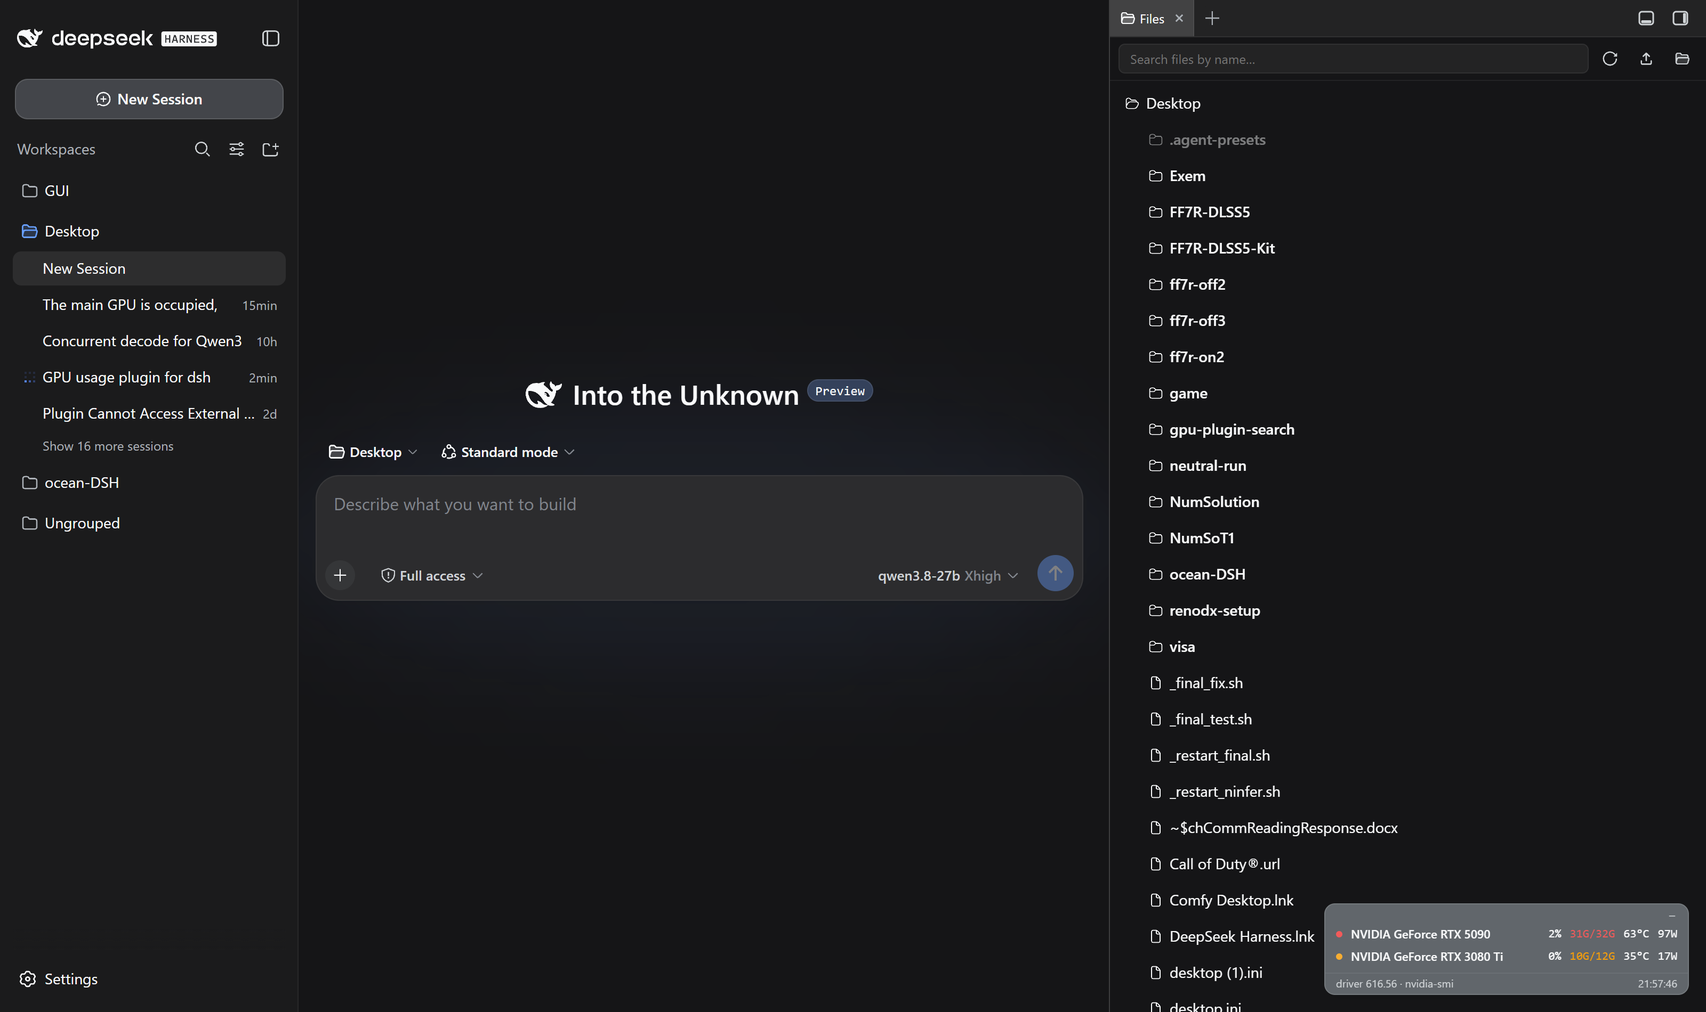
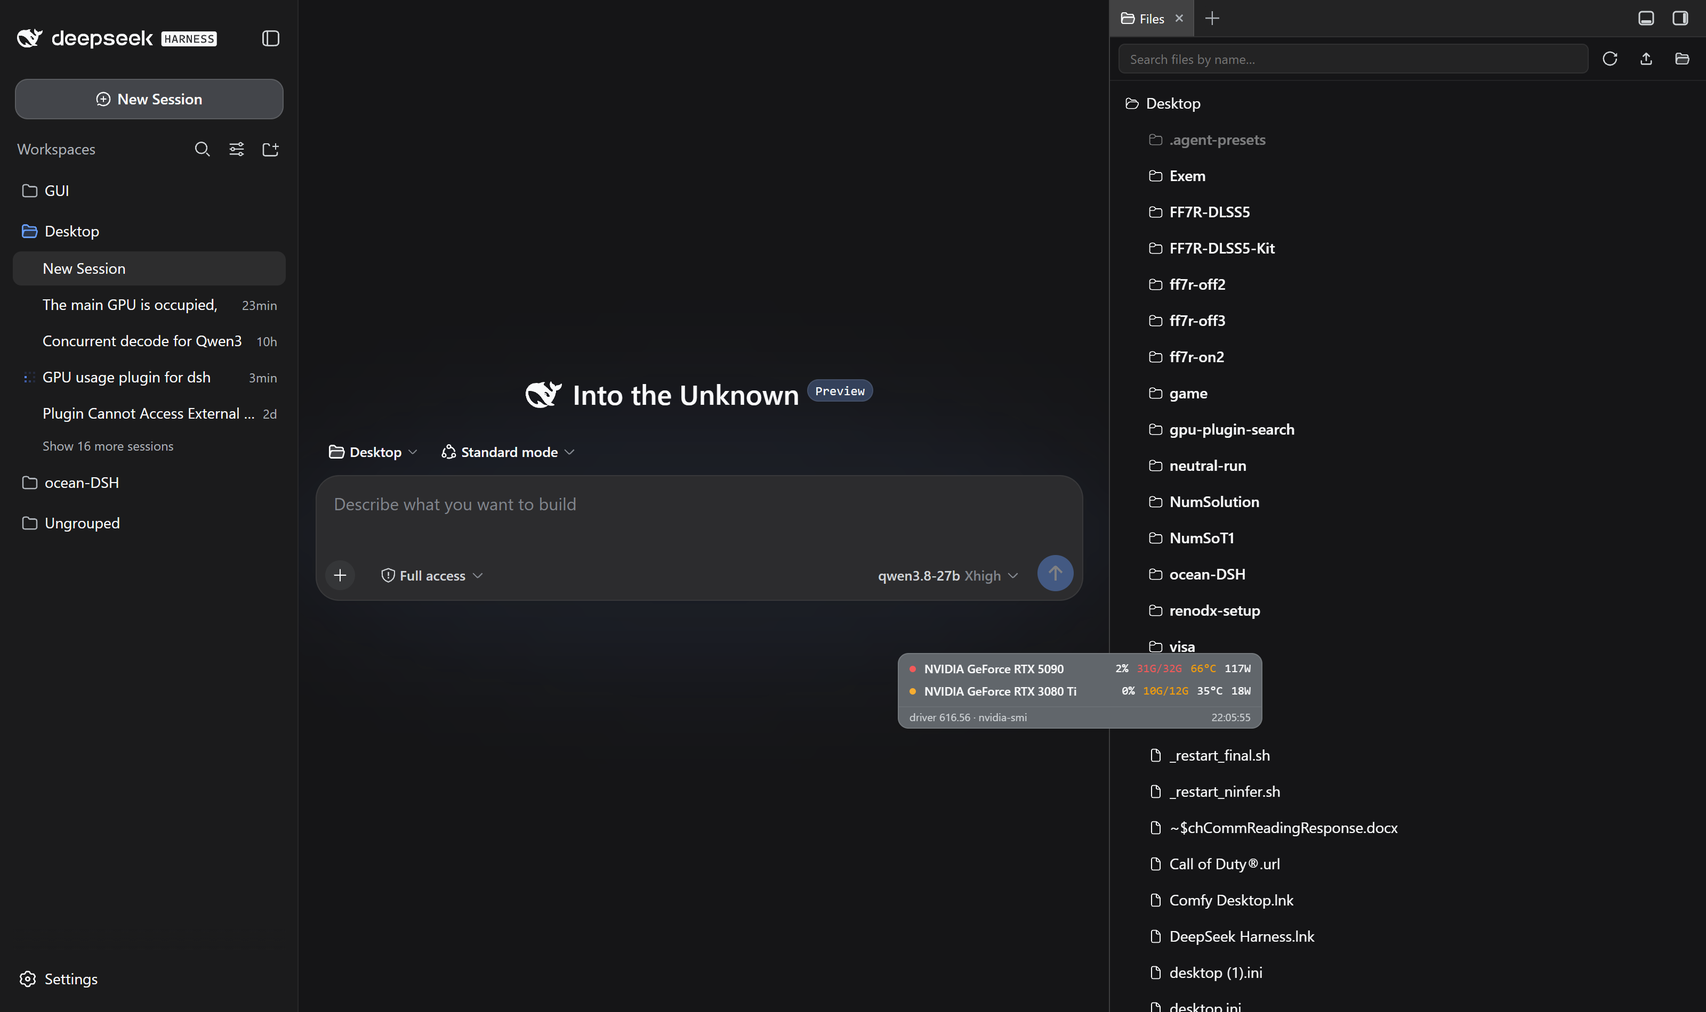
ui: single format (no collapse), draggable with persisted position (1.2.0)

Changed region(s): [[0.75, 0.8695, 1.0, 0.9937], [0.5, 0.6211, 0.75, 0.7453]]

diff --git a/client/client.js b/client/client.js
@@ -7,16 +7,18 @@
  * runner. The bundle `require`s exactly one module — the platform seed
  * `react` — so there are no externals to keep in sync with the host build.
  *
- * UI: a compact floating strip in the `shell.overlay` slot (bottom-right of
- * the DSH Web UI) polling GET /dsh-gpu-pulse/status (host half). It renders
- * every discrete GPU (integrated GPUs are not exposed by nvidia-smi) as a
- * single row: status dot, exact GPU name, utilization, VRAM, temperature and
- * power draw, plus a top-process list when the host collected compute apps.
- * A collapsed state (persisted in localStorage) drops the header and footer.
- * At runtime the widget promotes the overlay layer's z-index so side-card
- * plugins (dsh-better-sidebar) cannot cover it. Colors follow the active
- * theme via --dsw-* token variables (static fallbacks keep older hosts
- * readable).
+ * UI: a compact floating strip in the `shell.overlay` slot (the DSH Web UI)
+ * polling GET /dsh-gpu-pulse/status (host half). It always renders the same
+ * format: one row per discrete GPU (integrated GPUs are not exposed by
+ * nvidia-smi) with status dot, exact GPU name, utilization, VRAM,
+ * temperature and power draw, plus a top-process list when the host
+ * collected compute apps, and a slim footer. The strip is draggable: the
+ * pointer position persists in localStorage (survives new sessions and
+ * reboots on the same browser profile); double-clicking resets it to the
+ * default corner. At runtime the widget promotes the overlay layer's
+ * z-index so side-card plugins (dsh-better-sidebar) cannot cover it. Colors
+ * follow the active theme via --dsw-* token variables (static fallbacks
+ * keep older hosts readable).
  */
 window.__ModuleLoader__.load({
   id: "dsh-gpu-pulse",
@@ -25,12 +27,30 @@ window.__ModuleLoader__.load({
     var exports = module.exports;
     let react = require("react");
     const h = react.createElement;
-    const { useState, useEffect, useRef } = react;
+    const { useState, useEffect, useRef, useCallback } = react;
 
     const NS = "dsh-gpu-pulse";
     const STATUS_PATH = "/dsh-gpu-pulse/status";
-    const COLLAPSE_KEY = "dsh-gpu-pulse:collapsed";
+    const POS_KEY = "dsh-gpu-pulse:pos";
     const MIN_POLL_MS = 1000;
+
+    // ---- position persistence -------------------------------------------
+
+    function loadPos() {
+      try {
+        const raw = localStorage.getItem(POS_KEY);
+        if (!raw) return null;
+        const p = JSON.parse(raw);
+        if (p && Number.isFinite(p.x) && Number.isFinite(p.y)) return { x: p.x, y: p.y };
+      } catch (e) { /* bad storage: fall back to the default corner */ }
+      return null;
+    }
+    function savePos(p) {
+      try { localStorage.setItem(POS_KEY, JSON.stringify(p)); } catch (e) { /* private mode */ }
+    }
+    function clearPos() {
+      try { localStorage.removeItem(POS_KEY); } catch (e) { /* private mode */ }
+    }
 
     // ---- tone + formatting helpers -------------------------------------
 
@@ -56,11 +76,9 @@ window.__ModuleLoader__.load({
 
     const CSS = [
       "." + NS + "{position:fixed;right:16px;bottom:16px;z-index:30;font:11px/1.35 var(--dsw-font-family,-apple-system,'Segoe UI',sans-serif);color:var(--dsw-alias-label-primary,#1f2328);user-select:none;-webkit-user-select:none}",
-      "." + NS + "-card{width:340px;background:var(--dsw-alias-bg-overlay,#ffffff);border:1px solid var(--dsw-alias-border-l2,#dcdcdc);border-radius:10px;box-shadow:var(--dsw-shadow-lv2,0 8px 24px rgba(15,15,15,.14));overflow:hidden}",
-      "." + NS + "-head{display:flex;justify-content:flex-end;padding:3px 6px 0}",
-      "." + NS + "-btn{flex:none;border:0;background:transparent;color:var(--dsw-alias-label-secondary,#545557);font:11px/1 var(--dsw-font-family,inherit);cursor:pointer;padding:1px 6px;border-radius:5px}",
-      "." + NS + "-btn:hover{background:var(--dsw-alias-interactive-bg-hover,rgba(127,130,135,.12))}",
-      "." + NS + "-body{padding:2px 10px 4px;max-height:50vh;overflow-y:auto}",
+      "." + NS + "-card{width:340px;background:var(--dsw-alias-bg-overlay,#ffffff);border:1px solid var(--dsw-alias-border-l2,#dcdcdc);border-radius:10px;box-shadow:var(--dsw-shadow-lv2,0 8px 24px rgba(15,15,15,.14));overflow:hidden;cursor:grab;touch-action:none}",
+      "." + NS + "-card-dragging{cursor:grabbing;box-shadow:var(--dsw-shadow-lv3,0 12px 32px rgba(15,15,15,.22))}",
+      "." + NS + "-body{padding:4px 10px 0}",
       "." + NS + "-row{display:flex;align-items:center;gap:8px;padding:3px 0}",
       "." + NS + "-dot{flex:none;width:6px;height:6px;border-radius:50%;background:var(--dsw-static-green-400,#4ed17e)}",
       "." + NS + "-dot-warn{background:var(--dsw-static-amber-400,#f7ad31)}",
@@ -78,13 +96,10 @@ window.__ModuleLoader__.load({
       "." + NS + "-procstitle{margin-bottom:2px;font-size:10px;letter-spacing:.04em;color:var(--dsw-alias-label-secondary,#545557)}",
       "." + NS + "-proc{display:flex;justify-content:space-between;gap:8px;font-size:10px;font-family:var(--ds-font-family-code,ui-monospace,monospace);padding:1px 0}",
       "." + NS + "-procname{overflow:hidden;text-overflow:ellipsis;white-space:nowrap}",
-      "." + NS + "-foot{display:flex;justify-content:space-between;gap:8px;padding:3px 10px;border-top:1px solid var(--dsw-alias-border-l1,rgba(127,130,135,.18));font-size:10px;color:var(--dsw-alias-label-secondary,#545557)}",
+      "." + NS + "-foot{display:flex;justify-content:space-between;gap:8px;padding:3px 10px;margin-top:3px;border-top:1px solid var(--dsw-alias-border-l1,rgba(127,130,135,.18));font-size:10px;color:var(--dsw-alias-label-secondary,#545557)}",
       "." + NS + "-pill{display:inline-flex;align-items:center;gap:8px;padding:6px 12px;border-radius:999px;background:var(--dsw-alias-bg-overlay,#ffffff);border:1px solid var(--dsw-alias-border-l2,#dcdcdc);box-shadow:var(--dsw-shadow-lv2,0 8px 24px rgba(15,15,15,.14));font-size:11px;cursor:pointer}",
       "." + NS + "-pill:hover{border-color:var(--dsw-alias-brand-primary,#4176e6)}",
-      "." + NS + "-pillsub{font-size:10px;color:var(--dsw-alias-label-secondary,#545557);max-width:300px;overflow:hidden;text-overflow:ellipsis;white-space:nowrap}",
-      "." + NS + "-chip{width:340px;background:var(--dsw-alias-bg-overlay,#ffffff);border:1px solid var(--dsw-alias-border-l2,#dcdcdc);border-radius:10px;box-shadow:var(--dsw-shadow-lv2,0 8px 24px rgba(15,15,15,.14));padding:5px 10px 6px;cursor:pointer}",
-      "." + NS + "-chip:hover{border-color:var(--dsw-alias-brand-primary,#4176e6)}",
-      "." + NS + "-chiphead{display:flex;align-items:center;gap:6px;margin-bottom:2px;font-size:10px;color:var(--dsw-alias-label-secondary,#545557)}"
+      "." + NS + "-pillsub{font-size:10px;color:var(--dsw-alias-label-secondary,#545557);max-width:300px;overflow:hidden;text-overflow:ellipsis;white-space:nowrap}"
     ].join("\n");
 
     // ---- components ------------------------------------------------------
@@ -117,12 +132,13 @@ window.__ModuleLoader__.load({
 
     function GpuWidget() {
       const [data, setData] = useState(null);
-      const [collapsed, setCollapsed] = useState(() => {
-        try { return localStorage.getItem(COLLAPSE_KEY) === "1"; } catch (e) { return false; }
-      });
+      const [pos, setPos] = useState(loadPos);
+      const [dragging, setDragging] = useState(false);
+      const [, forceTick] = useState(0); // re-render hook for resize clamping
       const pollMsRef = useRef(2000);
       const inFlight = useRef(false);
       const rootRef = useRef(null);
+      const dragRef = useRef(null);
 
       // Stacking fix: the host app stacks the shell.overlay layer at z-index 20,
       // while side-panel plugins (dsh-better-sidebar: panel host z 25, panel
@@ -145,9 +161,12 @@ window.__ModuleLoader__.load({
         }
       });
 
+      // Keep a saved position on screen if the window shrinks after it.
       useEffect(() => {
-        try { localStorage.setItem(COLLAPSE_KEY, collapsed ? "1" : "0"); } catch (e) { /* private mode */ }
-      }, [collapsed]);
+        const onResize = () => forceTick((n) => n + 1);
+        window.addEventListener("resize", onResize);
+        return () => window.removeEventListener("resize", onResize);
+      }, []);
 
       useEffect(() => {
         let stopped = false;
@@ -174,16 +193,77 @@ window.__ModuleLoader__.load({
         return () => { stopped = true; clearTimeout(timer); };
       }, []);
 
-      // Loading / driver-missing: a quiet pill, not a card.
+      // ---- dragging (position persists across sessions via localStorage)
+
+      const clampPos = useCallback((x, y) => {
+        const el = rootRef.current;
+        const w = el ? el.offsetWidth : 340;
+        const hh = el ? el.offsetHeight : 100;
+        return {
+          x: Math.max(0, Math.min(window.innerWidth - w, x)),
+          y: Math.max(0, Math.min(window.innerHeight - hh, y))
+        };
+      }, []);
+
+      const onMove = (e) => {
+        const d = dragRef.current;
+        if (!d) return;
+        d.moved = true;
+        setPos(clampPos(e.clientX - d.dx, e.clientY - d.dy));
+      };
+
+      // Plain functions (recreated per render): the instance added to the
+      // window in onDragStart and the instance removing it in onUp are always
+      // from the same render, so add/remove pair up correctly.
+      const onUp = (e) => {
+        const d = dragRef.current;
+        dragRef.current = null;
+        window.removeEventListener("pointermove", onMove);
+        window.removeEventListener("pointerup", onUp);
+        window.removeEventListener("pointercancel", onUp);
+        setDragging(false);
+        if (d && d.moved) {
+          const p = clampPos(e.clientX - d.dx, e.clientY - d.dy);
+          setPos(p);
+          savePos(p);
+        }
+      };
+
+      const onDragStart = (e) => {
+        if (e.button !== 0) return;
+        const el = rootRef.current;
+        if (!el) return;
+        e.preventDefault();
+        const r = el.getBoundingClientRect();
+        dragRef.current = { dx: e.clientX - r.left, dy: e.clientY - r.top, moved: false };
+        setDragging(true);
+        window.addEventListener("pointermove", onMove);
+        window.addEventListener("pointerup", onUp);
+        window.addEventListener("pointercancel", onUp);
+      };
+
+      // Double-click (no drag involved) resets to the default corner.
+      const onDblClick = () => {
+        clearPos();
+        setPos(null);
+      };
+
+      // Clamped position for the current viewport (recomputed on resize).
+      const shownPos = pos ? clampPos(pos.x, pos.y) : null;
+      const rootStyle = shownPos
+        ? { left: shownPos.x + "px", top: shownPos.y + "px", right: "auto", bottom: "auto" }
+        : undefined;
+
+      // Loading / driver-missing: a quiet pill, not a strip.
       if (data == null) {
-        return h("div", { className: NS, ref: rootRef },
+        return h("div", { className: NS, ref: rootRef, style: rootStyle },
           h("div", { className: NS + "-pill", title: "Waiting for the first sample" },
             h("span", { className: NS + "-dot " + NS + "-dot-off" }),
             h("span", null, "GPU"),
             h("span", { className: NS + "-pillsub" }, "…")));
       }
       if (!data.ok) {
-        return h("div", { className: NS, ref: rootRef },
+        return h("div", { className: NS, ref: rootRef, style: rootStyle },
           h("div", { className: NS + "-pill", title: data.reason || "GPU telemetry unavailable" },
             h("span", { className: NS + "-dot " + NS + "-dot-off" }),
             h("span", null, "GPU"),
@@ -191,24 +271,6 @@ window.__ModuleLoader__.load({
       }
 
       const gpus = data.gpus || [];
-      const globalTone = worstTone(
-        ...gpus.map((g) => {
-          const memPct = g.memTotalMiB ? (g.memUsedMiB / g.memTotalMiB) * 100 : null;
-          return worstTone(utilTone(g.util), memTone(memPct), tempTone(g.temp));
-        })
-      );
-
-      if (collapsed) {
-        // Collapsed chip: the same per-GPU rows without header/footer.
-        return h("div", { className: NS, ref: rootRef },
-          h("div", { className: NS + "-chip", title: "Click to expand", onClick: () => setCollapsed(false) },
-            h("div", { className: NS + "-chiphead" },
-              h("span", { className: NS + "-dot" + dotCls(globalTone) }),
-              h("span", null, gpus.length + " GPU" + (gpus.length === 1 ? "" : "s"))
-            ),
-            h(GpuRows, { gpus })
-          ));
-      }
 
       let procsEl = null;
       if (data.processes && data.processes.length > 0) {
@@ -223,11 +285,13 @@ window.__ModuleLoader__.load({
         );
       }
 
-      return h("div", { className: NS, ref: rootRef },
-        h("div", { className: NS + "-card" },
-          h("div", { className: NS + "-head" },
-            h("button", { className: NS + "-btn", title: "Collapse", onClick: () => setCollapsed(true) }, "–")
-          ),
+      return h("div", { className: NS, ref: rootRef, style: rootStyle },
+        h("div", {
+          className: NS + "-card" + (dragging ? " " + NS + "-card-dragging" : ""),
+          title: "Drag to move, double-click to reset position",
+          onPointerDown: onDragStart,
+          onDoubleClick: onDblClick
+        },
           h("div", { className: NS + "-body" }, h(GpuRows, { gpus }), procsEl),
           h("div", { className: NS + "-foot" },
             h("span", null, "driver " + (data.driverVersion || "—") + " · " + data.backend),

diff --git a/README.md b/README.md
@@ -1,6 +1,6 @@
 # dsh-gpu-pulse
 
-A floating GPU monitor inside the DSH Web UI. Live per-GPU **utilization, VRAM, temperature and power**, plus the top VRAM-consuming processes when the driver reports them, rendered as a compact strip (one row per GPU) in the corner of the DeepSeek Harness page.
+A floating GPU monitor inside the DSH Web UI. Live per-GPU **utilization, VRAM, temperature and power**, plus the top VRAM-consuming processes when the driver reports them, rendered as a compact, draggable strip (one row per GPU) in the DeepSeek Harness page.
 
 Works on any machine with an NVIDIA driver (Windows or Linux): the data comes from `nvidia-smi`, so multi-GPU rigs show one instrument block per GPU. `nvidia-smi` only reports discrete NVIDIA adapters, so integrated GPUs (Intel UHD, AMD iGPU, ...) are never part of the display. No extra service to run and no agent tools to call: the card polls the DSH host's own route.
 
@@ -12,9 +12,9 @@ Works on any machine with an NVIDIA driver (Windows or Linux): the data comes fr
 
 The strip stays on top of side panels and side cards (for example the `dsh-better-sidebar` Files panel) instead of being covered by them.
 
-The minus button in the top-right corner collapses the strip to the same rows without header and footer:
+## Positioning
 
-![dsh-gpu-pulse collapsed, one row per GPU](docs/screenshot-chip.png)
+The strip starts at the bottom-right corner and is **draggable**: press and drag it anywhere on the page. The position is remembered (persisted per browser profile), so it stays where you left it across new sessions and reboots. Double-click the strip to reset it to the default corner.
 
 ## Install
 
@@ -28,7 +28,7 @@ dsh plugin --profile web add /path/to/dsh-gpu-pulse
 
 The npm name `dsh-gpu-pulse` is reserved: `dsh plugin --profile web add dsh-gpu-pulse` will work once the npm package is published.
 
-Then restart `dsh web`. The strip appears at the bottom-right corner of the GUI; the minus button in the top-right corner collapses it (the same rows without header and footer), and the collapsed state persists.
+Then restart `dsh web`. The strip appears at the bottom-right corner of the GUI; drag it wherever you like and the spot is remembered.
 
 ## What you see
 
@@ -43,7 +43,7 @@ One row per GPU, intentionally compact (about 85 px for two GPUs):
 - **TOP PROCESSES**: the biggest VRAM consumers, when the driver attributes memory per process (most recent Windows drivers report `[N/A]` for graphics contexts, in which case this section is omitted)
 - footer: driver (KMD) version + timestamp of the last sample
 
-The exact GPU name (as reported by the driver) is shown in every row and in the collapsed state.
+The exact GPU name (as reported by the driver) is shown in every row.
 
 ## Configuration
 
@@ -62,7 +62,7 @@ Everything is optional: defaults work out of the box. Override in the profile's 
 ## How it works
 
 - **Host** (`index.js`): registers `GET /dsh-gpu-pulse/status` on the DSH host web server. Each request runs up to four `nvidia-smi` queries (`--query-gpu` metrics, `--query-gpu=index,name`, `--version`, and optionally `--query-compute-apps`) with a 4 s timeout, parses the CSV, and returns JSON. Results are cached for ~1.2 s so several open tabs share one process per poll cycle.
-- **Client** (`client/client.js`): a hand-written `__ModuleLoader__` bundle (no build step, the only require is the platform `react` seed) that mounts the widget into the `shell.overlay` slot. It polls the status route and styles itself with the active theme's `--dsw-*` token variables (static fallbacks keep older hosts readable). Because side-panel plugins stack above the overlay slot's default z-index, the client promotes the overlay layer to the top of the app's stack at runtime, so side cards and drawers can never cover the widget.
+- **Client** (`client/client.js`): a hand-written `__ModuleLoader__` bundle (no build step, the only require is the platform `react` seed) that mounts the widget into the `shell.overlay` slot. It polls the status route, styles itself with the active theme's `--dsw-*` token variables (static fallbacks keep older hosts readable), and handles its own pointer events for dragging (the position is stored in `localStorage` under a `dsh-gpu-pulse:pos` key). Because side-panel plugins stack above the overlay slot's default z-index, the client promotes the overlay layer to the top of the app's stack at runtime, so side cards and drawers can never cover the widget.
 
 ## Requirements
 

diff --git a/README.zh.md b/README.zh.md
@@ -1,6 +1,6 @@
 # dsh-gpu-pulse
 
-DSH Web 界面内置的悬浮 GPU 监控。实时显示每张 GPU 的**利用率、显存、温度与功耗**，当驱动支持按进程归因显存时还会列出占用最高的进程，以紧凑条带形式（每张 GPU 一行）渲染在 DeepSeek Harness 页面角落。
+DSH Web 界面内置的悬浮 GPU 监控。实时显示每张 GPU 的**利用率、显存、温度与功耗**，当驱动支持按进程归因显存时还会列出占用最高的进程，以紧凑可拖动的条带形式（每张 GPU 一行）渲染在 DeepSeek Harness 页面。
 
 适用于任何装有 NVIDIA 驱动的机器（Windows 或 Linux）：数据来自 `nvidia-smi`，多 GPU 平台会为每张 GPU 显示一块独立的仪表区。`nvidia-smi` 只上报独立的 NVIDIA 显卡，因此核显（Intel UHD、AMD iGPU 等）不会出现在显示中。无需额外常驻服务，也无需调用 agent 工具：卡片直接轮询 DSH 宿主自带的接口。
 
@@ -12,9 +12,9 @@ DSH Web 界面内置的悬浮 GPU 监控。实时显示每张 GPU 的**利用率
 
 侧边面板或侧边卡片打开时（例如 `dsh-better-sidebar` 的 Files 面板），条带会保持在最上层，不会被遮挡。
 
-点右上角减号按钮可将条带折叠为无头部与页脚的紧凑形态（同样的每张 GPU 一行）：
+## 位置
 
-![dsh-gpu-pulse 折叠形态，每张 GPU 一行](docs/screenshot-chip.png)
+条带默认出现在右下角，并且**可拖动**：按住拖到页面任意位置即可。位置会被记住（按浏览器配置持久保存），因此新建会话或重启后仍保持上次放的位置。双击条带可恢复到默认角落。
 
 ## 安装
 
@@ -28,7 +28,7 @@ dsh plugin --profile web add /path/to/dsh-gpu-pulse
 
 npm 包名 `dsh-gpu-pulse` 已预留：npm 包发布后 `dsh plugin --profile web add dsh-gpu-pulse` 即可用。
 
-然后重启 `dsh web`。条带出现在 GUI 右下角；点右上角减号按钮可将其折叠为无头部与页脚的紧凑形态，折叠状态会被记住。
+然后重启 `dsh web`。条带出现在 GUI 右下角；拖动到任意位置即可，位置会被记住。
 
 ## 界面内容
 
@@ -43,7 +43,7 @@ npm 包名 `dsh-gpu-pulse` 已预留：npm 包发布后 `dsh plugin --profile we
 - **TOP PROCESSES**：显存占用最高的进程；多数新版 Windows 驱动对图形上下文返回 `[N/A]`，此时该区块自动省略
 - 页脚：驱动（KMD）版本 + 最近一次采样的时间戳
 
-每行与折叠形态都显示驱动报告的精确 GPU 名称。
+每行都显示驱动报告的精确 GPU 名称。
 
 ## 配置
 
@@ -62,7 +62,7 @@ npm 包名 `dsh-gpu-pulse` 已预留：npm 包发布后 `dsh plugin --profile we
 ## 工作原理
 
 - **宿主端**（`index.js`）：在 DSH 宿主 web server 上注册 `GET /dsh-gpu-pulse/status`。每次请求最多并行执行四条 `nvidia-smi` 查询（`--query-gpu` 指标、`--query-gpu=index,name`、`--version`，以及可选的 `--query-compute-apps`），超时 4 秒，解析 CSV 后返回 JSON。结果缓存约 1.2 秒，多个标签页的并发轮询共享同一进程。
-- **客户端**（`client/client.js`）：手写的 `__ModuleLoader__` 插件包（无构建步骤，唯一的 require 是平台内置的 `react` 种子模块），把组件挂到 `shell.overlay` 槽。它轮询状态接口，并使用当前主题的 `--dsw-*` token 变量着色（带静态回退值，旧宿主也能正常显示）。由于侧边面板类插件的层级高于 overlay 槽的默认层级，客户端在运行时把 overlay 层提升到应用最高层级，保证侧边卡片打开时组件仍然可见。
+- **客户端**（`client/client.js`）：手写的 `__ModuleLoader__` 插件包（无构建步骤，唯一的 require 是平台内置的 `react` 种子模块），把组件挂到 `shell.overlay` 槽。它轮询状态接口，使用当前主题的 `--dsw-*` token 变量着色（带静态回退值，旧宿主也能正常显示），并用自身的指针事件实现拖动（位置保存在 `localStorage` 的 `dsh-gpu-pulse:pos` 键下）。由于侧边面板类插件的层级高于 overlay 槽的默认层级，客户端在运行时把 overlay 层提升到应用最高层级，保证侧边卡片打开时组件仍然可见。
 
 ## 要求
 

diff --git a/CHANGELOG.md b/CHANGELOG.md
@@ -3,6 +3,14 @@
 All notable changes to `dsh-gpu-pulse` are documented here.
 The format is based on [Keep a Changelog](https://keepachangelog.com/), and this project aims to follow [Semantic Versioning](https://semver.org/).
 
+## [1.2.0] - 2026-08-31
+
+### Added
+- Draggable strip: press and drag the widget to any spot on the page; the position persists in `localStorage` (survives new sessions and reboots on the same browser profile). Double-click resets it to the default corner. The strip is clamped to the viewport when the window shrinks.
+
+### Removed
+- The expand/collapse toggle: the widget now always renders a single format (the compact strip). The `dsh-gpu-pulse:collapsed` storage key is no longer read.
+
 ## [1.1.0] - 2026-08-31
 
 ### Changed
